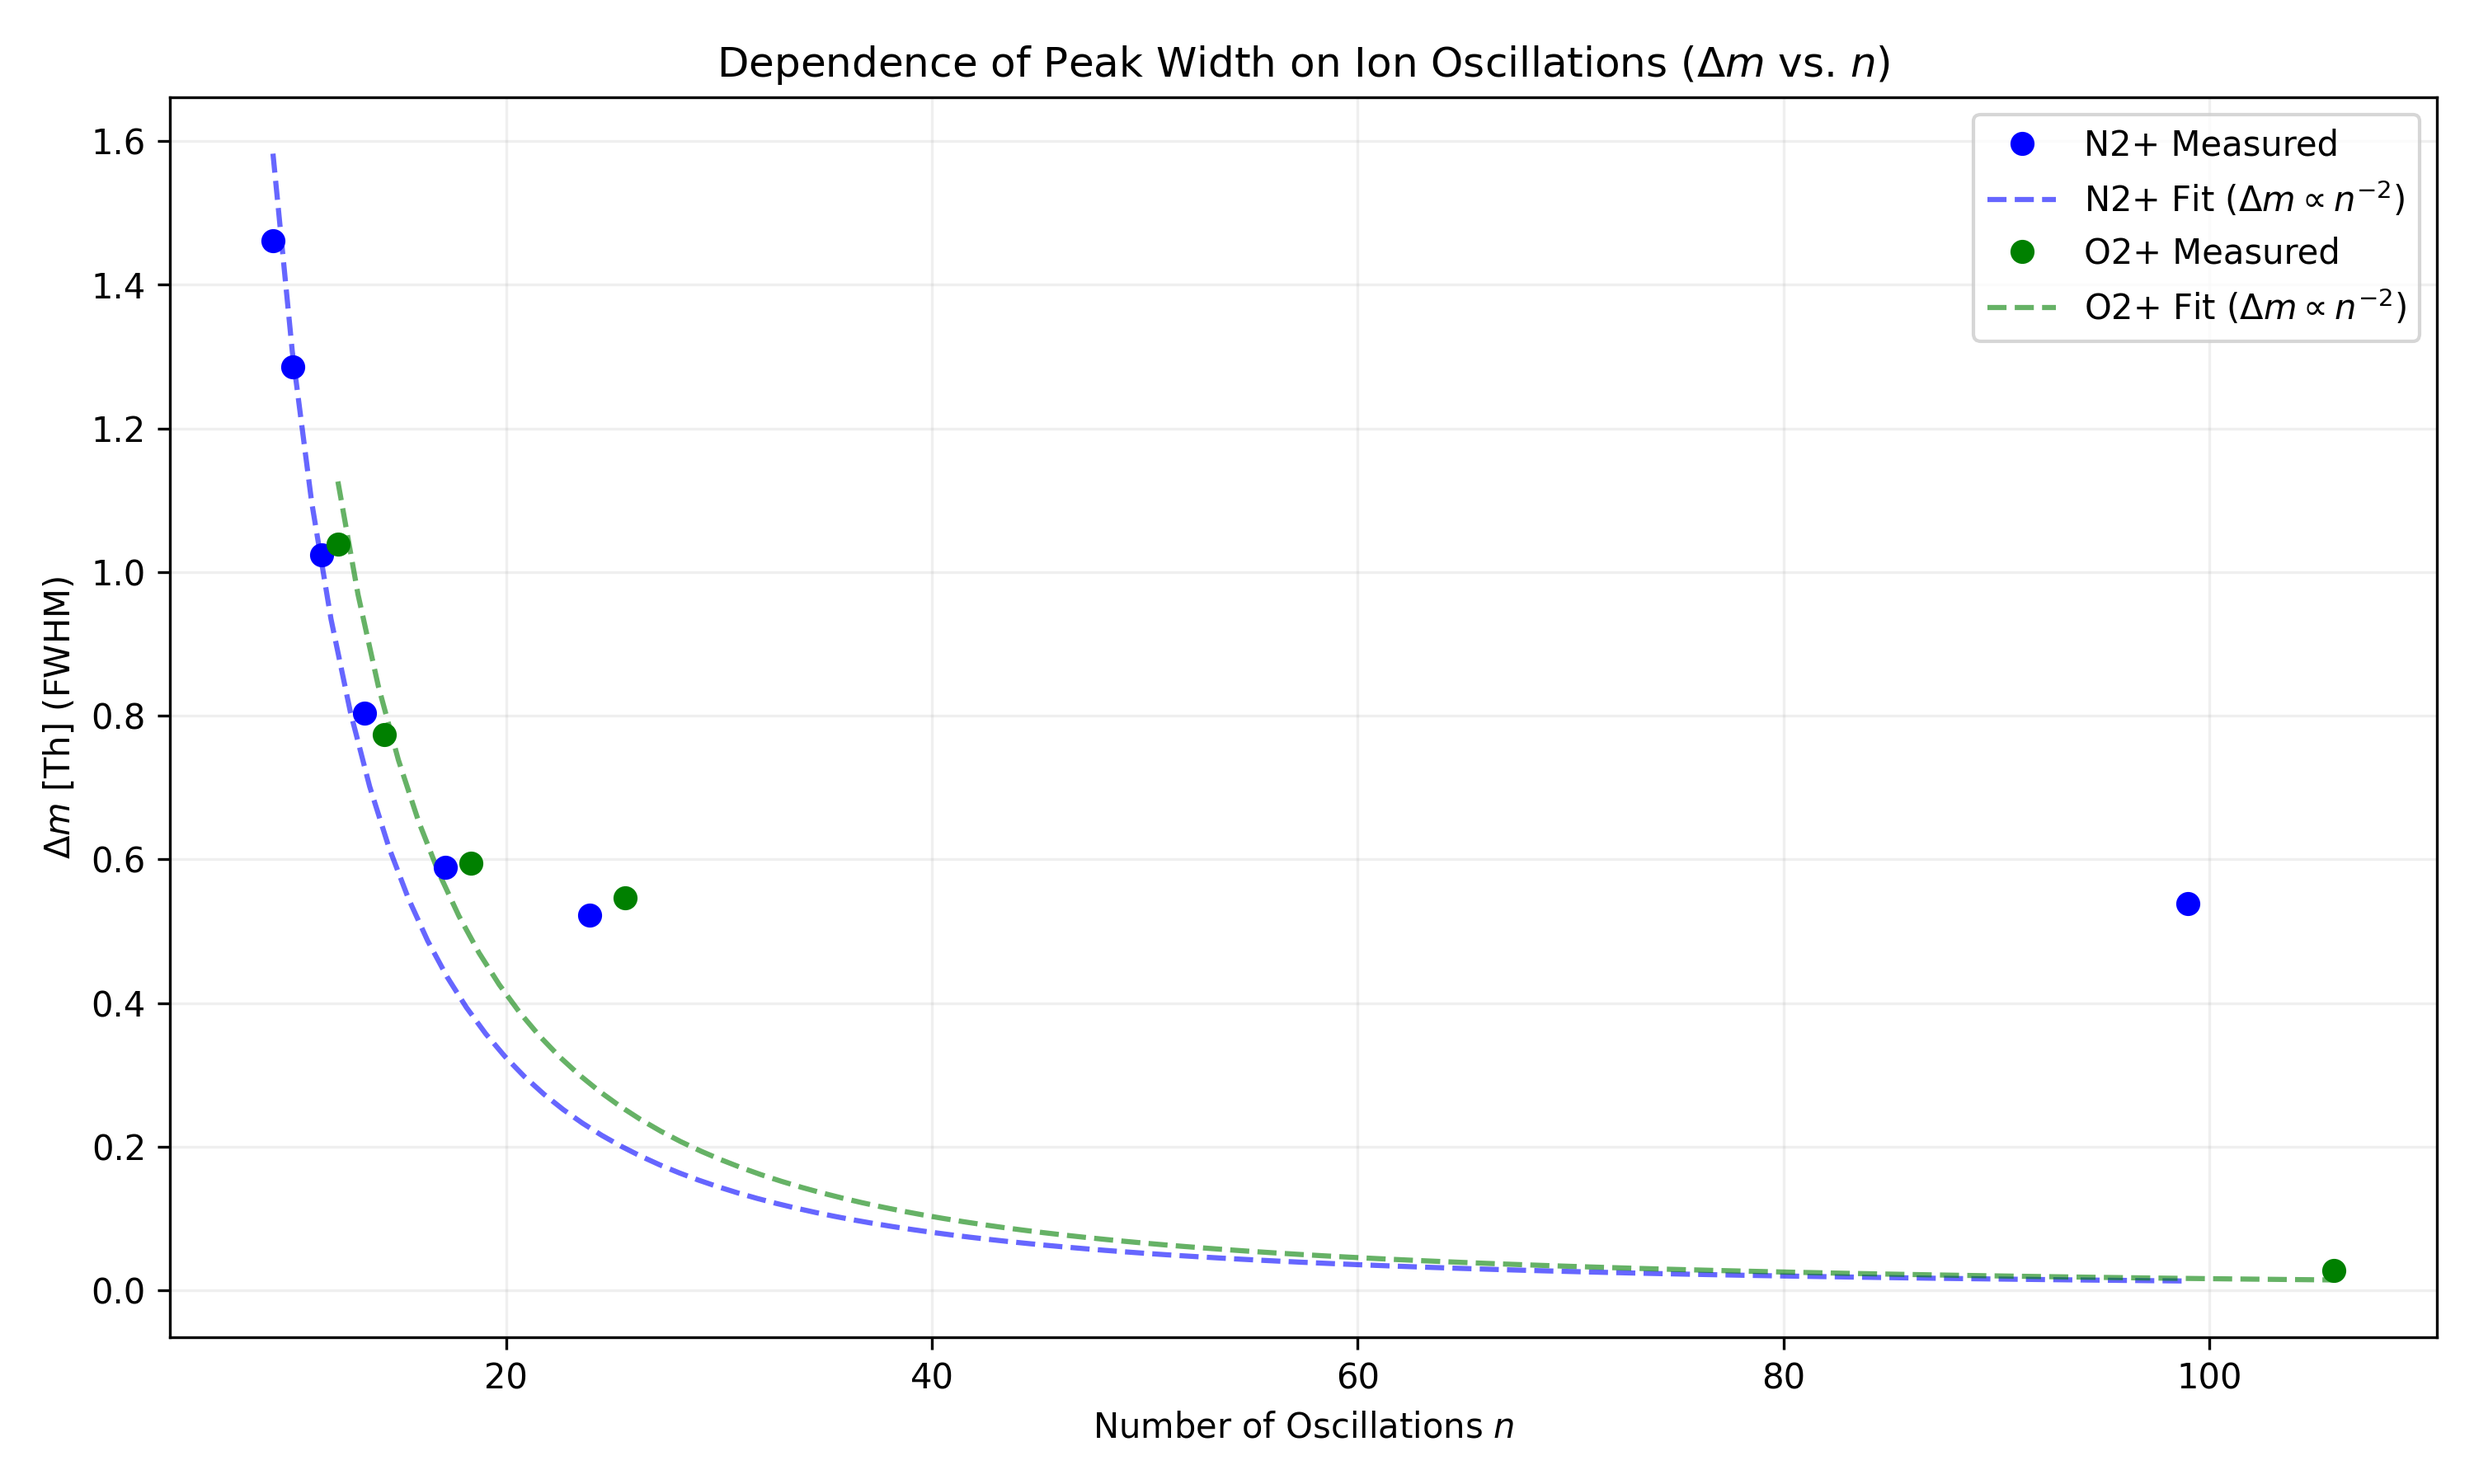
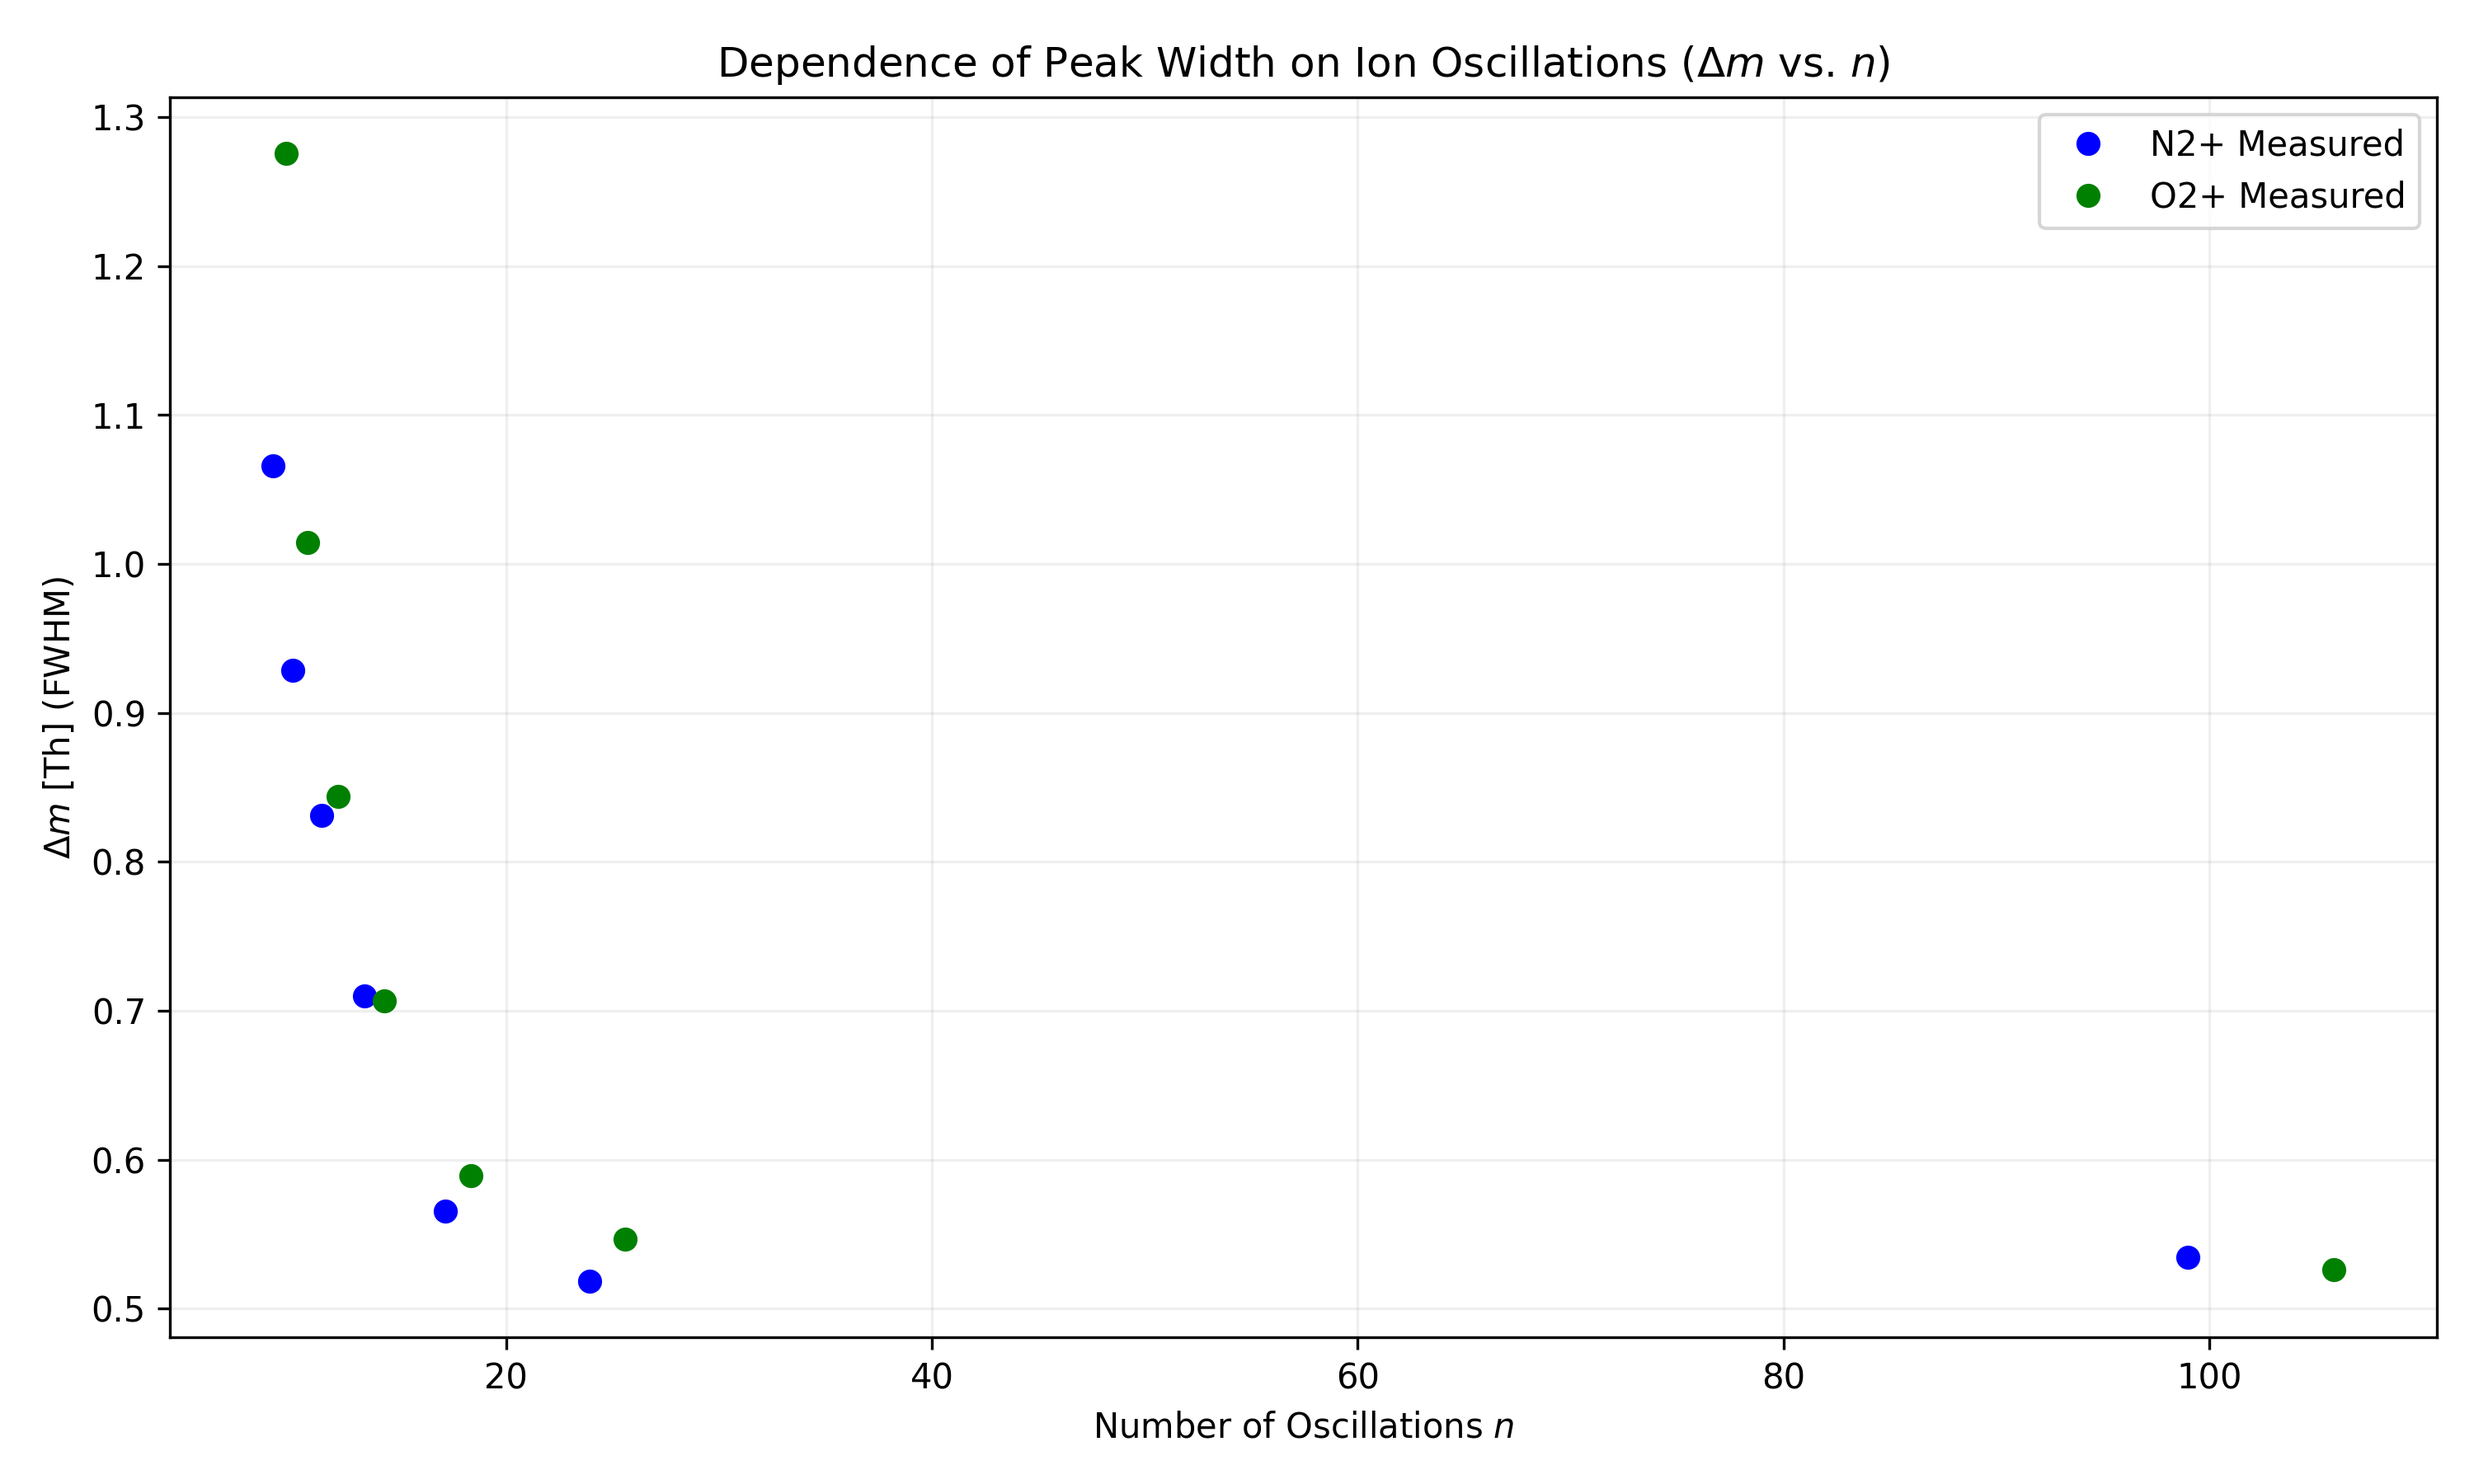
Finished task 6

diff --git a/Evaluation/Evaluation_QMS.tex b/Evaluation/Evaluation_QMS.tex
@@ -680,10 +680,34 @@ Figure~\ref{fig:acceleration} shows the overlay of air spectra recorded at diffe
   \caption{Comparision of different $U_{FA}$ voltages for the air spectra measurements at normalized pressure. The effect of the electron acceleration in the signal is clearly visible, with lower $U_B$ values correspond to higher resolution (narrower peaks) but lower signal intensity.}\label{fig:acceleration}
 \end{figure}
 
-\begin{itemize}
-  \item For two chosen masses, extract $\Delta m$ (FWHM) at each $U_\mathrm{B}$
-  \item Convert each setting to an ion oscillation count in the rods using the given rod length $l=0.1$ m and RF frequency $\nu=2.5$ MHz, then plot $\Delta m$ versus number of oscillations for both masses
-\end{itemize}
+To quantitatively evaluate the dependence of the resolution on the ion energy, the FWHM ($\Delta m$) of the $N_2^+$ and $O_2^+$ peaks was extracted for each acceleration voltage $U_B$. For each setting, the number of RF oscillations $n$ performed by the ions was calculated using the relationship $n = \nu \cdot l / v_z$, where $l=0.1$\,m and $\nu=2.5$\,MHz.
+
+The results are plotted in Figure~\ref{fig:dm_vs_n}. The data shows a clear inverse relationship: as the number of oscillations increases (corresponding to lower ion energy), the peak width $\Delta m$ decreases significantly. This confirms that ions spending more time in the quadrupole field undergo more effective mass filtering, resulting in higher resolution.
+
+\begin{table}[H]
+  \centering
+  \begin{tabular}{cc|cc|cc}
+    \toprule
+    \multicolumn{2}{c|}{\textbf{Voltage Settings}} & \multicolumn{2}{c|}{\textbf{$N_2^+$ ($28$ Th)}} & \multicolumn{2}{c}{\textbf{$O_2^+$ ($32$ Th)}} \\
+    $U_{FA}$ [V] & $U_B$ [V] & $\Delta m$ [Th] & $n$ & $\Delta m$ [Th] & $n$ \\
+    \midrule
+    112.9 & 0.92   & 0.5347 & 99.02 & 0.5265 & 105.86 \\
+    98.0  & 15.83  & 0.5186 & 23.94 & 0.5468 & 25.59  \\
+    83.0  & 30.83  & 0.5656 & 17.15 & 0.5891 & 18.34  \\
+    63.0  & 50.83  & 0.7100 & 13.36 & 0.7068 & 14.28  \\
+    43.0  & 70.83  & 0.8312 & 11.32 & 0.8437 & 12.10  \\
+    23.0  & 90.83  & 0.9284 & 9.99  & 1.0143 & 10.68  \\
+    3.0   & 110.83 & 1.0657 & 9.05  & 1.2754 & 9.67   \\
+    \bottomrule
+  \end{tabular}
+  \caption{Dependence of peak width ($\Delta m$) and number of oscillations ($n$) on the acceleration voltage ($U_B$) for $N_2^+$ and $O_2^+$. The data demonstrates the inverse relationship between ion energy and mass resolution.}\label{tab:fwhm_n_results}
+\end{table}
+
+\begin{figure}[H]
+  \centering
+  \includegraphics[width=0.9\linewidth]{../resources/task_6_resolution_trend.png}
+  \caption{Relationship between the peak width $\Delta m$ (FWHM) and the number of RF oscillations $n$ for $N_2^+$ and $O_2^+$.}\label{fig:dm_vs_n}
+\end{figure}
 
 % --- Discussion ---
 \section{Discussion}

diff --git a/resources/task_5_6_fwhm_plot.py b/resources/task_5_6_fwhm_plot.py
@@ -36,19 +36,6 @@ def plot_resolution_vs_oscillations():
         
         # Plot Measured Data
         plt.plot(n_data, dm_data, 'o', label=f'{ion} Measured', color=colors[ion], zorder=3)
-        
-        # Fit and Plot Theory Curve
-        try:
-            # We constrain the fit to be positive
-            popt, _ = curve_fit(theory_model, n_data, dm_data, p0=[1000])
-            
-            n_fit = np.linspace(n_data.min(), n_data.max(), 100)
-            dm_fit = theory_model(n_fit, *popt)
-            
-            plt.plot(n_fit, dm_fit, '--', color=colors[ion], alpha=0.6, 
-                     label=rf'{ion} Fit ($\Delta m \propto n^{{-2}}$)')
-        except Exception as e:
-            print(f"Fit failed for {ion}: {e}")
 
     # 4. Formatting
     plt.title(r'Dependence of Peak Width on Ion Oscillations ($\Delta m$ vs. $n$)')

diff --git a/resources/task_5_6_fwhm.py b/resources/task_5_6_fwhm.py
@@ -72,7 +72,7 @@ def run_task_6_analysis():
             
             # 1. Calculate FWHM
             # We use a slightly wider window (2.0) because peaks get broad at high U_B
-            meas_m, fwhm, _ = calculate_fwhm_robust(m, i_raw, target_m, window=2.0)
+            meas_m, fwhm, _ = calculate_fwhm_robust(m, i_raw, target_m, window=1.1)
             
             # 2. Calculate Oscillations (n)
             n_osc = calculate_oscillations(u_b, target_m)
